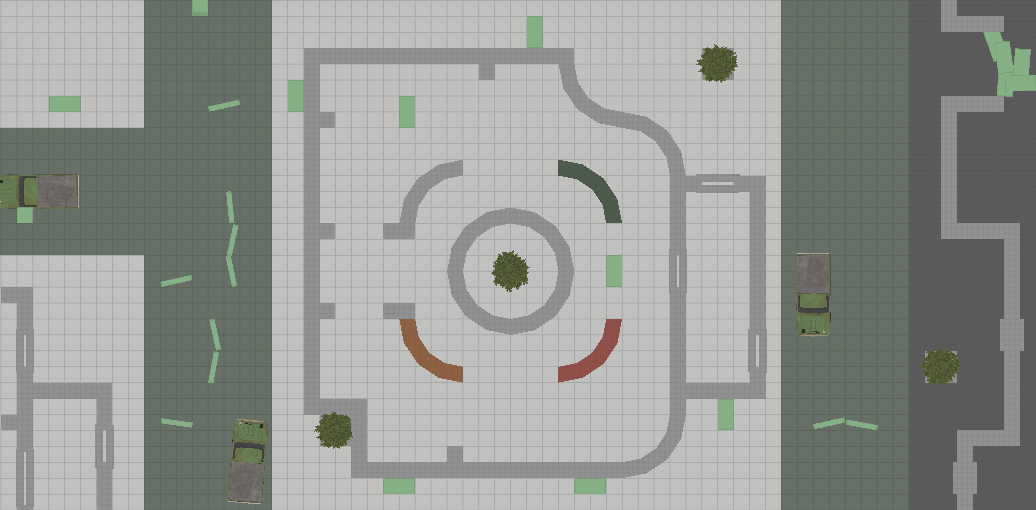
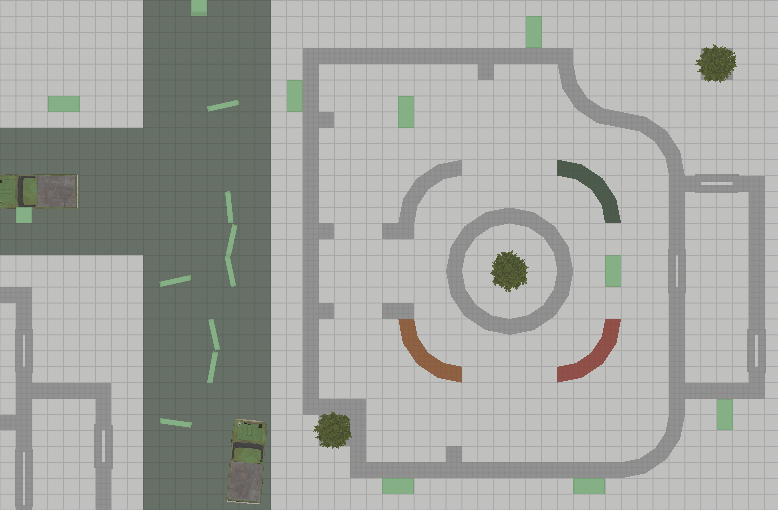
[+] added support for zooming and scrolling level [+] added support for reading obstacles from image

diff --git a/main.py b/main.py
@@ -1,19 +1,21 @@
 import cocos
 import pyglet.window.mouse
 from cocos import batch
+from cocos import euclid
 
-from gridCanvas import GridCanvas
 from pathCanvas import PathCanvas
 
-use_distance_grid = True
+use_distance_grid = False
 if use_distance_grid:
     from distanceGrid import DistanceGrid as Grid
 else:
     from grid import Grid
 
+# https://github.com/ezag/pyeuclid/blob/master/euclid.rst - useful doc
+
 director = cocos.director.director
 g_player_size = 1
-g_grid_size = 8
+g_grid_size = 16
 
 
 class GridLayer(cocos.layer.Layer):
@@ -27,7 +29,7 @@ class GridLayer(cocos.layer.Layer):
         self.add(bg)
 
         # Canvas that draws the grid
-        self.add(GridCanvas(g_grid_size))
+        # self.add(GridCanvas(g_grid_size))
 
         # Canvas to draw paths
         self.path_canvas = PathCanvas()
@@ -42,11 +44,37 @@ class GridLayer(cocos.layer.Layer):
         self._grid = Grid()
         self.path_cost = 0
 
+        # Load obstacles from image
+        bg_texture_data = bg.image.get_image_data()
+        data = bg_texture_data.get_data('RGB', bg.width * 3)
+        valid_colors = [
+            [192, 192, 191],
+            [102, 112, 102],
+            [91, 91, 91],
+            [168, 168, 168],
+        ]
+
+        for x in range(g_grid_size / 2, bg.width, g_grid_size):
+            for y in range(g_grid_size / 2, bg.height, g_grid_size):
+                pos = (bg.width * y + x) * 3
+                rgb = map(ord, data[pos:pos + 3])
+                valid = False
+                limit = 2
+                for valid_color in valid_colors:
+                    if valid:
+                        break
+                    valid = True
+                    for i in range(0, 3):
+                        valid = valid and abs(valid_color[i] - rgb[i]) < limit
+
+                if not valid:
+                    self.set_grid_obstructed((x, y), True, False)
+
     def update_path(self):
         path = self.get_start_to_end_path()
         path = [self.grid_to_world(grid_pos) for grid_pos in path]
-        path = [(x + g_grid_size * g_player_size/2.0,
-                 y + g_grid_size * g_player_size/2.0) for x, y in path]
+        path = [(x + g_grid_size * g_player_size / 2.0,
+                 y + g_grid_size * g_player_size / 2.0) for x, y in path]
         self.path_canvas.set_path(path)
 
     @staticmethod
@@ -89,10 +117,12 @@ class GridLayer(cocos.layer.Layer):
             self.update_path()
 
     def toggle_grid_obstacle(self, position):
+        position = self.get_world_inverse() * euclid.Point2(position[0], position[1])
         # Toggle this obstacle
         self.set_grid_obstructed(position, not self.get_grid_obstacle(position))
 
     def set_start_pos(self, position):
+        position = self.get_world_inverse() * euclid.Point2(position[0], position[1])
         if self.start_square is None:
             self.start_square = cocos.layer.ColorLayer(
                 0, 200, 0, 255,
@@ -107,6 +137,7 @@ class GridLayer(cocos.layer.Layer):
             self.update_path()
 
     def set_end_pos(self, position):
+        position = self.get_world_inverse() * euclid.Point2(position[0], position[1])
         if self.end_square is None:
             self.end_square = cocos.layer.ColorLayer(
                 200, 0, 0, 255,
@@ -162,8 +193,7 @@ class GridLayer(cocos.layer.Layer):
 
 
 class MouseDisplay(cocos.layer.Layer):
-
-    is_event_handler = True     #: enable director.window events
+    is_event_handler = True  #: enable director.window events
 
     def __init__(self, grid_layer):
         super(MouseDisplay, self).__init__()
@@ -171,6 +201,8 @@ class MouseDisplay(cocos.layer.Layer):
         win_size = director.get_window_size()
 
         self._grid = grid_layer
+        self._drag_start = (0, 0)
+        self._grid_pos_start = (0, 0)
         self.state = 'path'
 
         self.text_bg = cocos.layer.ColorLayer(0, 0, 0, 255, win_size[0], 23)
@@ -185,12 +217,27 @@ class MouseDisplay(cocos.layer.Layer):
         self.current_grid_obstructed = False
         self.keys_pressed = set()
 
+    def on_mouse_scroll(self, x, y, dx, dy):
+        self.scale = max(self.scale + dy * 0.5, 0.1)
+        self._grid.scale = self.scale
+        pass
+
+    def on_mouse_leave(self, x, y):
+        pass
+
+    def on_mouse_enter(self, x, y):
+        pass
+
     def on_mouse_motion(self, x, y, dx, dy):
         pass
 
     def on_mouse_drag(self, x, y, dx, dy, buttons, modifiers):
         mouse_pos = director.get_virtual_coordinates(x, y)
-        if self.state == 'edit':
+        if buttons & pyglet.window.mouse.MIDDLE:
+            drag_offset = tuple(mouse_pos[i] - self._drag_start[i] for i in range(0, 2))
+            self._grid.position = tuple(self._grid_pos_start[i] + drag_offset[i] for i in range(0, 2))
+            self.position = self._grid.position
+        elif self.state == 'edit':
             if buttons & pyglet.window.mouse.LEFT:
                 self._grid.set_grid_obstructed(
                     mouse_pos,
@@ -206,7 +253,10 @@ class MouseDisplay(cocos.layer.Layer):
 
     def on_mouse_press(self, x, y, buttons, modifiers):
         mouse_pos = director.get_virtual_coordinates(x, y)
-        if self.state == 'path':
+        if buttons & pyglet.window.mouse.MIDDLE:
+            self._drag_start = mouse_pos
+            self._grid_pos_start = self._grid.position
+        elif self.state == 'path':
             if buttons & pyglet.window.mouse.LEFT:
                 self._grid.set_start_pos(mouse_pos)
             elif buttons & pyglet.window.mouse.RIGHT:
